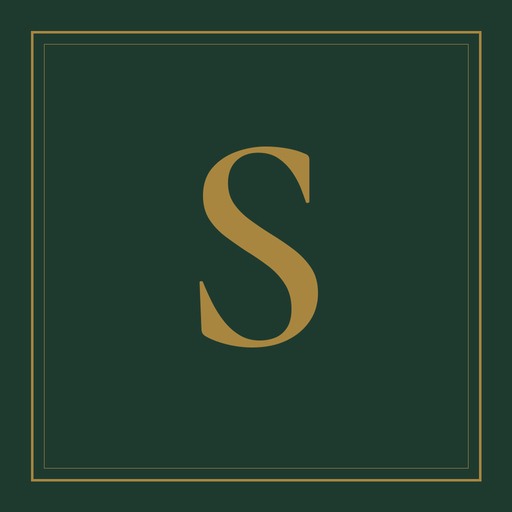
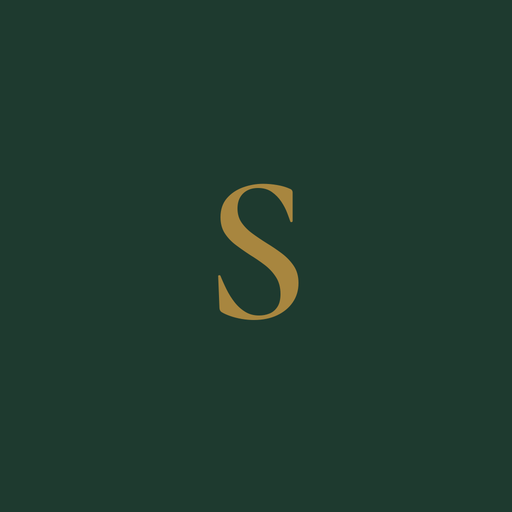
Ticket #12 review fixes
Two-axis review findings, folded in:

- The flattened-layout boot mirror carries the manifest too (it mirrored
  index.html + assets only, so /manifest.webmanifest answered with the page's
  HTML and the install metadata would degrade silently on that path).
- Head links are root-absolute (/manifest.webmanifest, /assets/...) — the
  server's catch-all answers unknown paths with index.html, so a relative
  href on any non-root URL would silently resolve to HTML.
- Icons are frameless and mask-safe everywhere: the gold frame sat 6% from
  the edge and iOS rounds apple-touch-icons at ~22%, clipping its corners.
  Regenerated all sizes from one padded master (S bbox radius 35% of the
  half-width, inside the 40% safe zone), added 167 and 152 for iPads, and
  copy_static now ships every app-icon* file (no per-size list to drift).
- Docs tell the truth about the status bar: theme-color forest tints the
  Android bar; iOS keeps its light bar over the cream page (the earlier
  "forest status bar" claim held only on Android).
- README + pipeline/README inventories name the manifest and icons.

Verified again on the sim, including the browser's own check:
Page.getAppManifest errors: [] and Page.getInstallabilityErrors: [] — zero
installability errors from Chrome; all six icons 200 image/png at their exact
sizes; manifest 200 application/manifest+json; the page unchanged. Evidence
rebuilt as a before/after pair carrying the installability result.

Changed region(s): [[0.0625, 0.0625, 0.9688, 0.9688], [0.375, 0.4062, 0.625, 0.6875], [0.375, 0.2812, 0.625, 0.4688]]

diff --git a/pipeline/design/app.html b/pipeline/design/app.html
@@ -6,8 +6,10 @@
 <title>__SHELF_TITLE__</title>
 <!-- home-screen app (ticket #12): installed once from Safari; the manifest
      and apple meta make it open full-screen, themed to the design -->
-<link rel="manifest" href="manifest.webmanifest">
-<link rel="apple-touch-icon" href="assets/app-icon-180.png">
+<link rel="manifest" href="/manifest.webmanifest">
+<link rel="apple-touch-icon" sizes="180x180" href="/assets/app-icon-180.png">
+<link rel="apple-touch-icon" sizes="167x167" href="/assets/app-icon-167.png">
+<link rel="apple-touch-icon" sizes="152x152" href="/assets/app-icon-152.png">
 <meta name="apple-mobile-web-app-capable" content="yes">
 <meta name="mobile-web-app-capable" content="yes">
 <meta name="apple-mobile-web-app-status-bar-style" content="default">

diff --git a/pipeline/build.py b/pipeline/build.py
@@ -448,10 +448,6 @@ def copy_static():
     pairs = [
         (os.path.join(DESIGN, 'support.js'), os.path.join(DIST, 'support.js')),
         (os.path.join(DESIGN, 'manifest.webmanifest'), os.path.join(DIST, 'manifest.webmanifest')),
-        (os.path.join(DESIGN, 'assets', 'app-icon-180.png'), os.path.join(DIST, 'assets', 'app-icon-180.png')),
-        (os.path.join(DESIGN, 'assets', 'app-icon-192.png'), os.path.join(DIST, 'assets', 'app-icon-192.png')),
-        (os.path.join(DESIGN, 'assets', 'app-icon-512.png'), os.path.join(DIST, 'assets', 'app-icon-512.png')),
-        (os.path.join(DESIGN, 'assets', 'app-icon-maskable-512.png'), os.path.join(DIST, 'assets', 'app-icon-maskable-512.png')),
         (os.path.join(DESIGN, 'vendor', 'react.production.min.js'), os.path.join(DIST, 'assets', 'vendor', 'react.production.min.js')),
         (os.path.join(DESIGN, 'vendor', 'react-dom.production.min.js'), os.path.join(DIST, 'assets', 'vendor', 'react-dom.production.min.js')),
     ]
@@ -460,6 +456,12 @@ def copy_static():
             shutil.copy2(src, dst)
         else:
             print('missing static: %s' % src)
+    # every app icon (adding a size = drop the file + a manifest entry)
+    icons = os.path.join(DESIGN, 'assets')
+    if os.path.isdir(icons):
+        for fn in sorted(os.listdir(icons)):
+            if fn.startswith('app-icon') and fn.endswith('.png'):
+                shutil.copy2(os.path.join(icons, fn), os.path.join(DIST, 'assets', fn))
     for cand in (os.path.join(ROOT, 'assets'), os.path.join(ROOT, '.lavish', 'assets')):
         if os.path.isdir(cand):
             shutil.copytree(cand, os.path.join(DIST, 'assets'), dirs_exist_ok=True)

diff --git a/container/server.py b/container/server.py
@@ -471,6 +471,9 @@ def ensure_default():
             bd = os.path.join(PIPELINE, 'dist', 'index.html')
             if os.path.isfile(bd):
                 shutil.copy2(bd, os.path.join(DIST, 'index.html'))
+                bm = os.path.join(PIPELINE, 'dist', 'manifest.webmanifest')
+                if os.path.isfile(bm):  # ticket #12 — install metadata rides along
+                    shutil.copy2(bm, os.path.join(DIST, 'manifest.webmanifest'))
                 ba = os.path.join(PIPELINE, 'dist', 'assets')
                 da = os.path.join(DIST, 'assets')
                 if os.path.isdir(ba):

diff --git a/README.md b/README.md
@@ -16,7 +16,7 @@ archive* (the reading room bookcase + everything she has read).
 | `container/` | server.py (web UI + settings API + scheduler) and Dockerfile |
 | `templates/` | Unraid Community Applications template (`my-the-shelf.xml`) + icon |
 | `.lavish/assets/` | the design's art — the seasonal coffee illustrations |
-| `pipeline/design/` | the live design (`app.html` + `support.js` + vendored React) |
+| `pipeline/design/` | the live design (`app.html` + `support.js` + vendored React + the home-screen manifest and icons) |
 | `compose.yaml` | Unraid-friendly compose (port 8787, appdata volumes) |
 
 ## Deploy on Unraid
@@ -37,8 +37,9 @@ The page is also a home-screen app: its own gold **S** icon and the name
 1. On the phone, open the shelf's address in **Safari**
    (`http://[unraid-ip]:8787`).
 2. Tap **Share → Add to Home Screen**, then **Add**.
-3. Open it from the home screen — it launches full-screen, themed to the
-   design (forest status bar, cream page).
+3. Open it from the home screen — it launches full-screen, no browser
+   chrome. The page stays cream; Android tints the bar forest (`theme-color`),
+   iOS keeps its light status bar over the cream.
 
 iOS only gives a true full-screen app when it is installed from Safari — keep
 browsing day-to-day in Chrome if you like, the icon is independent of the

diff --git a/pipeline/README.md b/pipeline/README.md
@@ -14,7 +14,7 @@ pipeline/
 ├── fetch.py           # Apple Books search (lane terms + author lane), publisher/language/series per book
 ├── filter.py          # hard rules + your shelf's verdicts (read/not-for-me never return)
 ├── curate.py          # OpenRouter call(s) → curated month JSON, shaped 3/3/3 (ticket #6)
-├── build.py           # month JSON → dist/index.html (the live design in design/app.html; blank installs get a valid empty-state page)
+├── build.py           # month JSON → dist/index.html (design/app.html + manifest.webmanifest + assets/app-icon-*.png; blank installs get a valid empty-state page)
 ├── lanes.py           # one lane mapping shared by curate/build/tests
 ├── windows.py         # target month + window end, shared by filter/curate
 ├── bookids.py         # the canonical book identity (book_key), shared by engine + app
